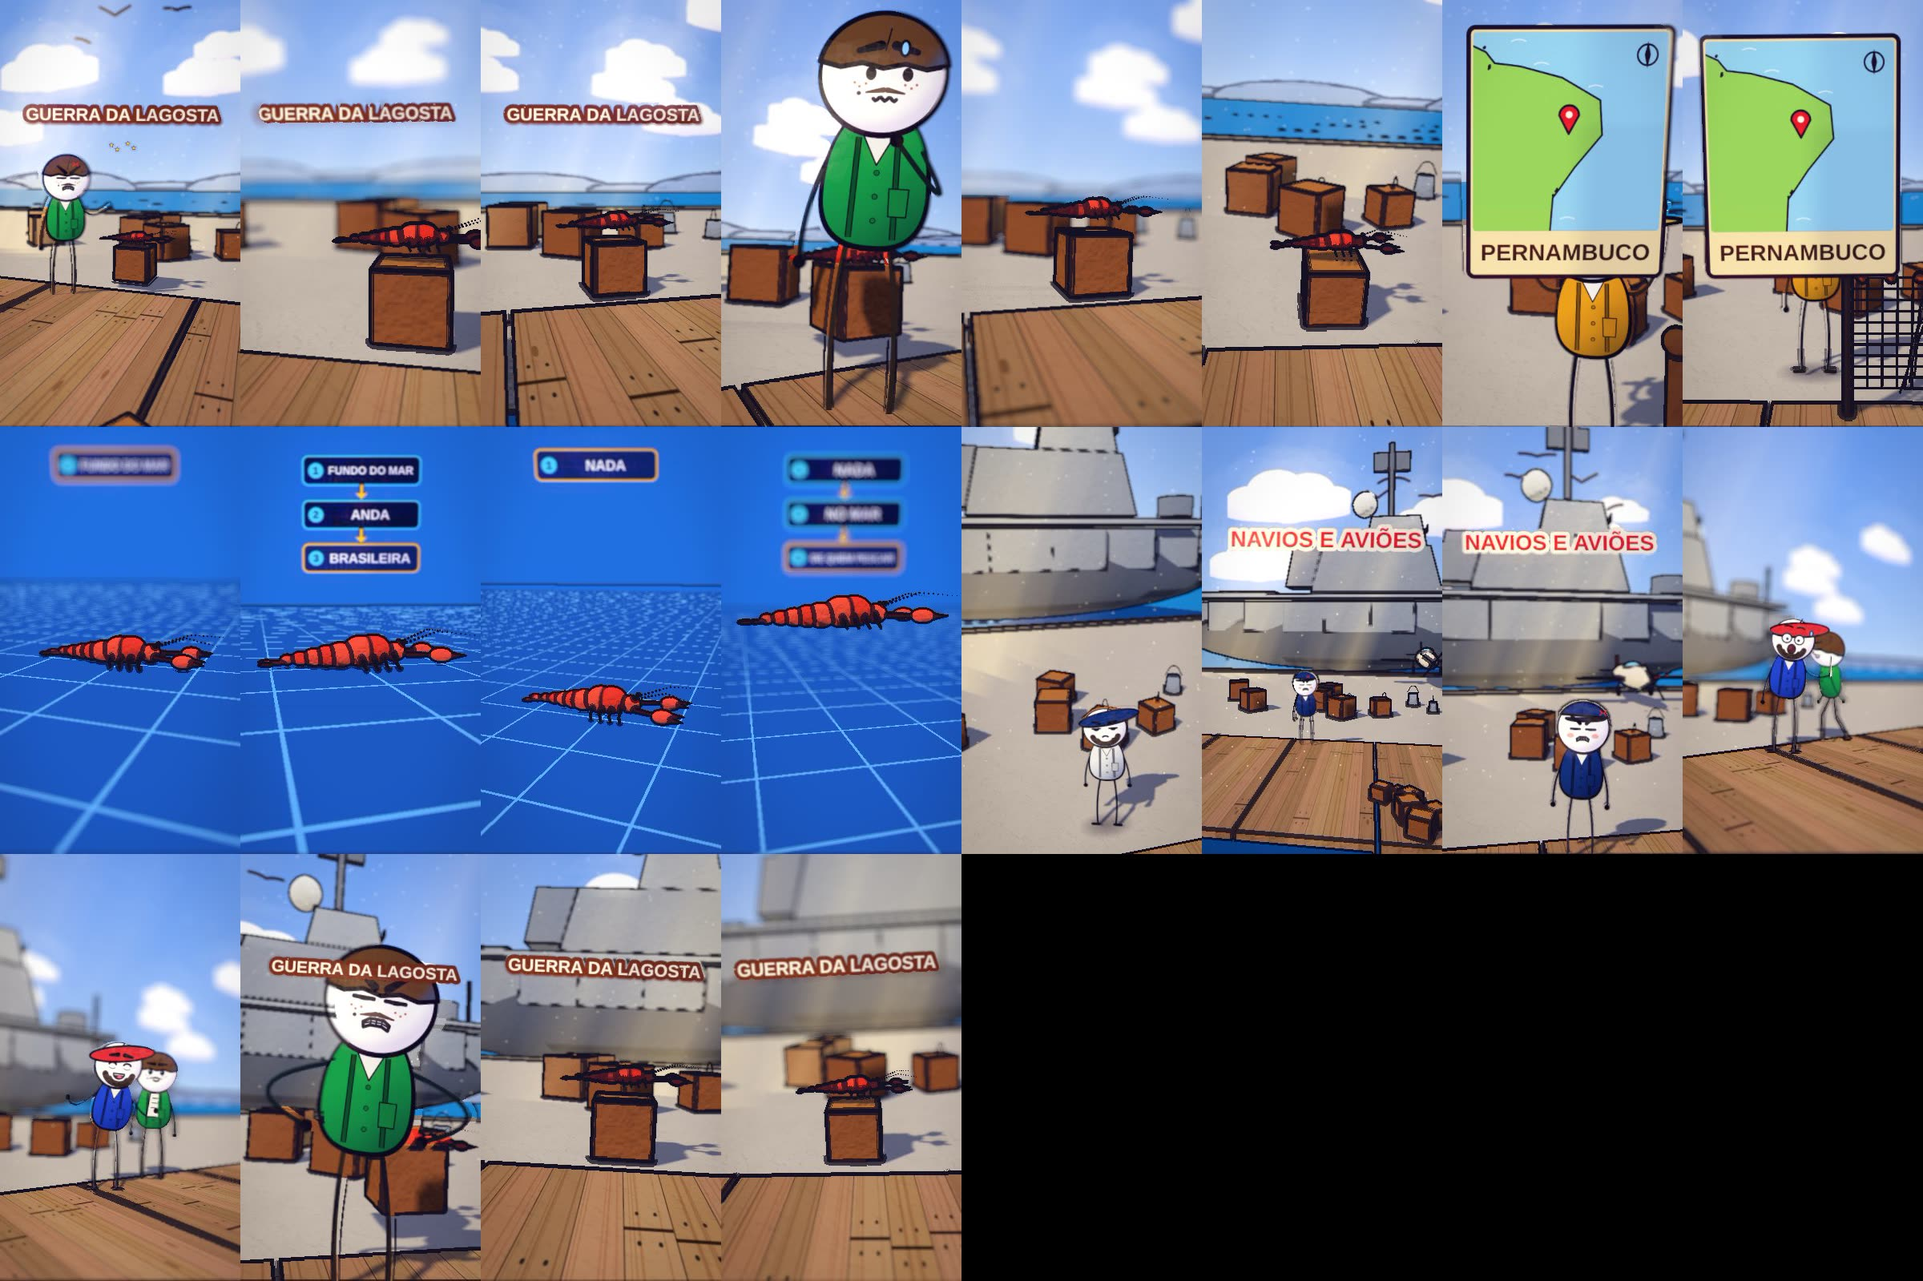
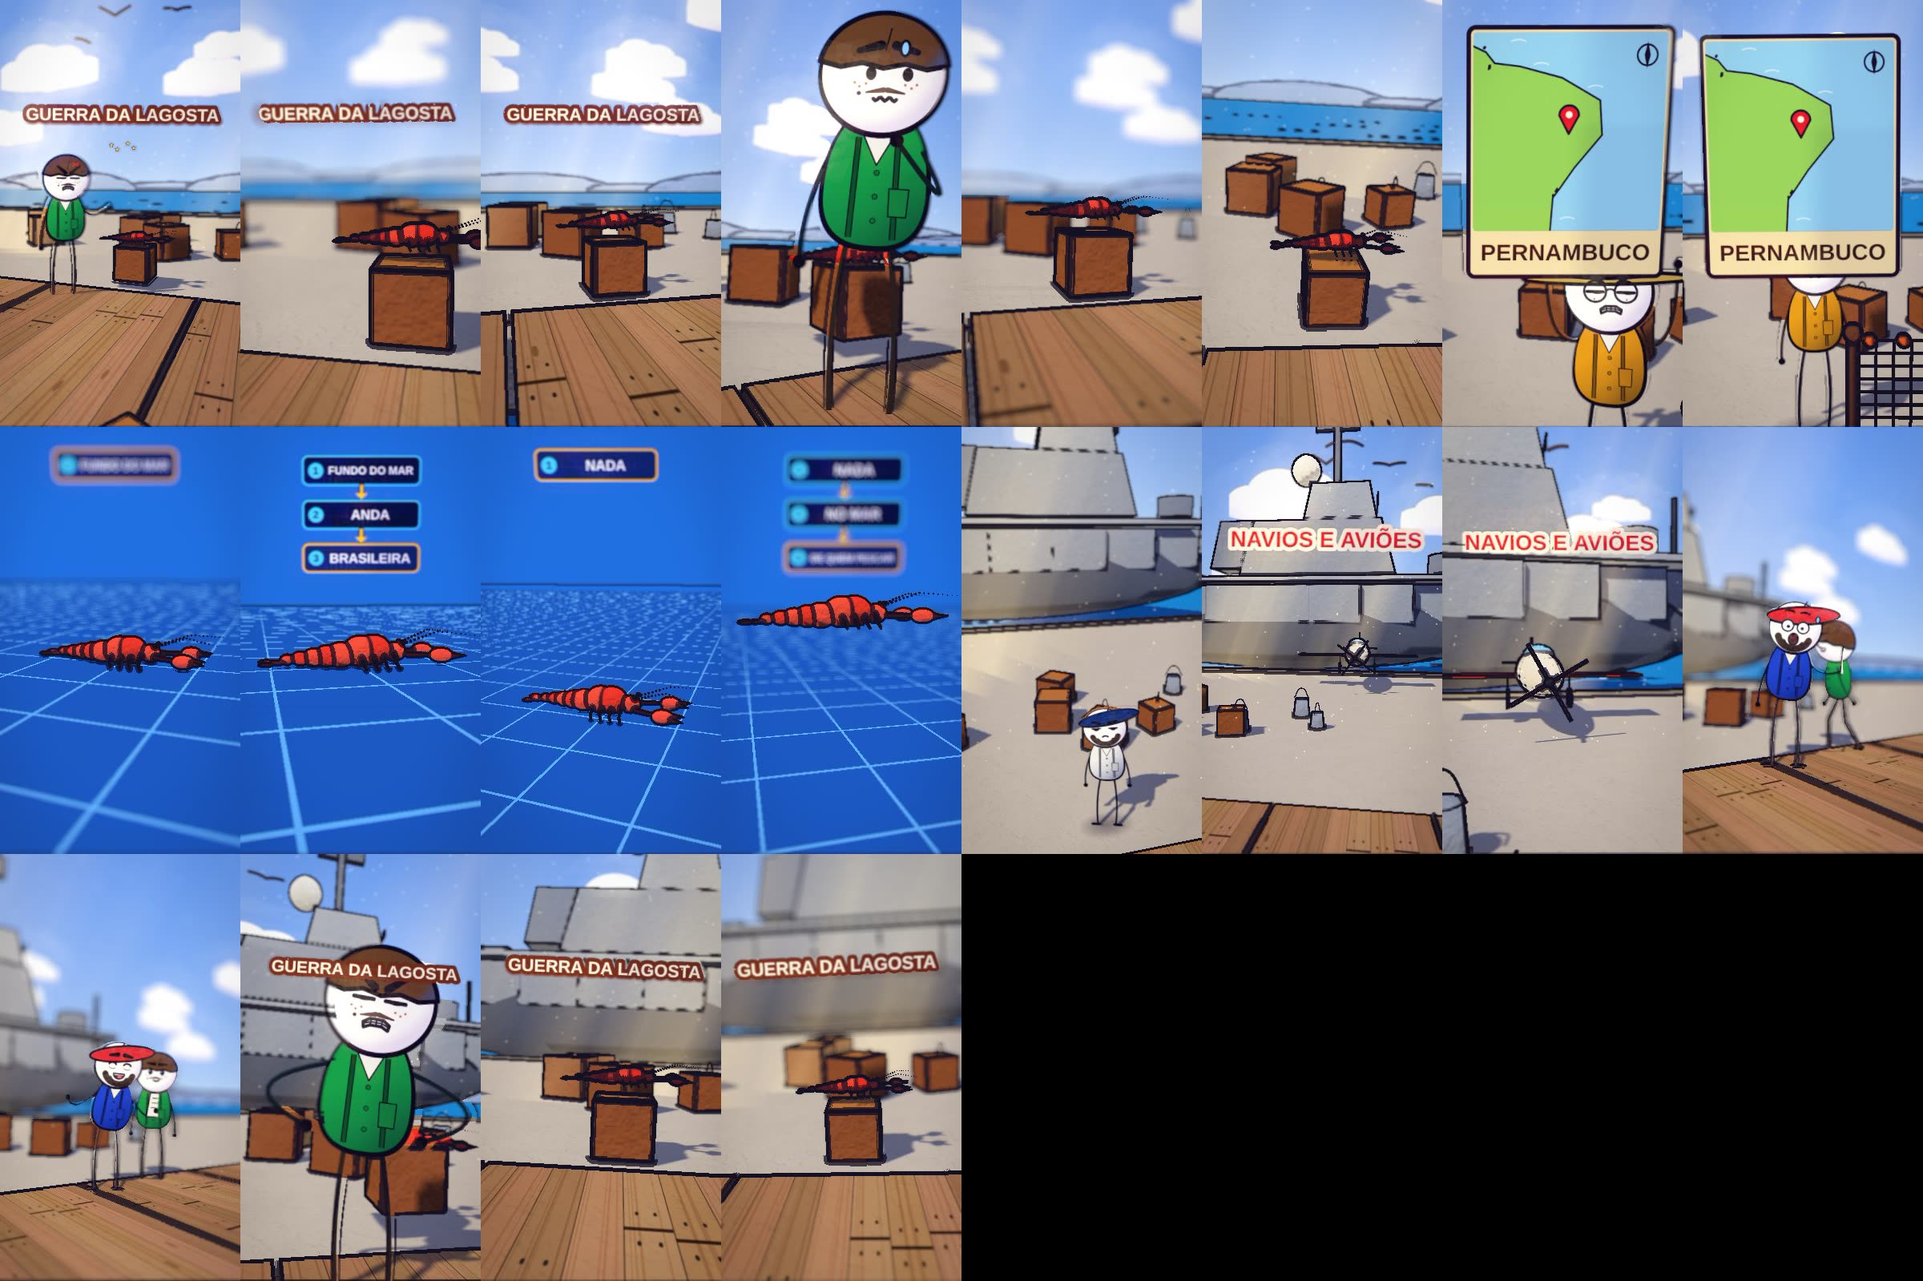
progresso da fila
Claude-Session: https://claude.ai/code/session_01HE8Dy3UcXXZZMLa7uzjNJD

Changed region(s): [[0.625, 0.1532, 1.0, 0.6742], [0.9688, 0.3984, 1.0, 0.429], [0.75, 0.1532, 0.7812, 0.1839]]

diff --git a/ferramenta-shorts/web/story.js b/ferramenta-shorts/web/story.js
@@ -38,11 +38,11 @@ const SPEC = {
   shots: [
     S('b0', A[0], Math.round(A[0] + (A[1] - 1 + 1 - (A[0])) * 0.36) - 1, X, "day", { h: 1.6, d0: 6.5, d1: 5.5, az0: -6, az1: 8, cx: 0.5, cz: -0.3, hero: { hero: 'any', frame: 'medium', minH: 0.07, main: 1 }, nocut: true, actors: [pp(X, "BRA", 0, 0.0, 1.3, "angry", { pose: 'argue' })], props: [{ asset: "crate", at: [X + 1.0, -0.4], s: 1.0, fixo: true }, { asset: "kit/lobster", at: [X + 1.0, -0.4], s: 0.58, fixo: true, y: DK + 0.95, drop: false }], fx: [{ k: 'stars', a: A[0] + 6, b: A[0] + 40, at: [X + 1.0, DK + 1.6, 0.1], s: 0.8 }, { k: 'birds', a: A[0], b: A[1] - 1, at: [X, DK + 4.5, -30], n: 4, dir: 1, off: 8 }, txt(X, WS(0, -2), A[1] - 1, "GUERRA DA LAGOSTA", '#fff6e0', '#7a3a1c', 4.5, { s: 1.5, up: 0.46 })] }), { ...S('b0_d', Math.round(A[0] + (A[1] - 1 + 1 - (A[0])) * 0.36), Math.round(A[0] + (A[1] - 1 + 1 - (A[0])) * 0.6) - 1, X, "day", { h: 1.6, d0: 6.5, d1: 5.5, az0: -6, az1: 8, cx: 0.5, cz: -0.3, hero: { hero: 'none', detalhe: true }, nocut: true, actors: [pp(X, "BRA", 0, 0.0, 1.3, "angry", { pose: 'stand' })], props: [{ asset: "crate", at: [X + 1.0, -0.4], s: 1.0, drop: false, fixo: true }, { asset: "kit/lobster", at: [X + 1.0, -0.4], s: 0.58, drop: false, fixo: true, y: DK + 0.95, drop: false }], fx: [{ k: 'stars', a: A[0] + 6, b: A[0] + 40, at: [X + 1.0, DK + 1.6, 0.1], s: 0.8 }, { k: 'birds', a: A[0], b: A[1] - 1, at: [X, DK + 4.5, -30], n: 4, dir: 1, off: 8 }, txt(X, WS(0, -2), A[1] - 1, "GUERRA DA LAGOSTA", '#fff6e0', '#7a3a1c', 4.5, { s: 1.5, up: 0.46 })] }), cam: [{ f: Math.round(A[0] + (A[1] - 1 + 1 - (A[0])) * 0.36), at: [X + 1.0, DK + 0.423, -0.4], d: 12.92, az: -14, el: 7, fov: 44 }, { f: Math.round(A[0] + (A[1] - 1 + 1 - (A[0])) * 0.6) - 1, at: [X + 1.0, DK + 0.423, -0.4], d: 11.5, az: -8, el: 6, fov: 44 }], nocut: true, vary: false, glide: true, glideN: 34 }, { ...S('b0_v', Math.round(A[0] + (A[1] - 1 + 1 - (A[0])) * 0.6), A[1] - 1, X, "day", { h: 1.6, d0: 6.5, d1: 5.5, az0: -6, az1: 8, cx: 0.5, cz: -0.3, hero: { hero: 'any', frame: 'medium', minH: 0.07, main: 1 }, nocut: true, actors: [pp(X, "BRA", 0, 0.0, 1.3, "angry", { pose: 'argue' })], props: [{ asset: "crate", at: [X + 1.0, -0.4], s: 1.0, drop: false, fixo: true }, { asset: "kit/lobster", at: [X + 1.0, -0.4], s: 0.58, drop: false, fixo: true, y: DK + 0.95, drop: false }], fx: [{ k: 'stars', a: A[0] + 6, b: A[0] + 40, at: [X + 1.0, DK + 1.6, 0.1], s: 0.8 }, { k: 'birds', a: A[0], b: A[1] - 1, at: [X, DK + 4.5, -30], n: 4, dir: 1, off: 8 }, txt(X, WS(0, -2), A[1] - 1, "GUERRA DA LAGOSTA", '#fff6e0', '#7a3a1c', 4.5, { s: 1.5, up: 0.46 })] }), glide: true, glideN: 34 },
     S('b1', A[1], Math.round(A[1] + (A[2] - 1 + 1 - (A[1])) * 0.36) - 1, X, "day", { h: 1.6, d0: 6.5, d1: 5.5, az0: -26, az1: -12, cx: 0.5, cz: -0.3, hero: { hero: 'any', frame: 'medium', minH: 0.07, main: 1 }, trans: 'cut', glide: true, glideN: 40, nocut: true, actors: [pp(X, "BRA", 0, 0.0, 1.3, "nervous", { pose: 'react' })], props: [{ asset: "crate", at: [X + 1.0, -0.4], s: 1.0, fixo: true }, { asset: "kit/lobster", at: [X + 1.0, -0.4], s: 0.58, fixo: true, y: DK + 0.95, drop: false }], fx: [{ k: 'stars', a: A[1] + 6, b: A[1] + 40, at: [X + 1.0, DK + 1.6, 0.1], s: 0.8 }] }), { ...S('b1_d', Math.round(A[1] + (A[2] - 1 + 1 - (A[1])) * 0.36), Math.round(A[1] + (A[2] - 1 + 1 - (A[1])) * 0.6) - 1, X, "day", { h: 1.6, d0: 6.5, d1: 5.5, az0: -26, az1: -12, cx: 0.5, cz: -0.3, hero: { hero: 'none', detalhe: true }, trans: 'cut', glide: true, glideN: 40, nocut: true, actors: [pp(X, "BRA", 0, 0.0, 1.3, "nervous", { pose: 'react' })], props: [{ asset: "crate", at: [X + 1.0, -0.4], s: 1.0, drop: false, fixo: true }, { asset: "kit/lobster", at: [X + 1.0, -0.4], s: 0.58, drop: false, fixo: true, y: DK + 0.95, drop: false }], fx: [{ k: 'stars', a: A[1] + 6, b: A[1] + 40, at: [X + 1.0, DK + 1.6, 0.1], s: 0.8 }] }), cam: [{ f: Math.round(A[1] + (A[2] - 1 + 1 - (A[1])) * 0.36), at: [X + 1.0, DK + 0.282, -0.4], d: 9.01, az: -14, el: 7, fov: 44 }, { f: Math.round(A[1] + (A[2] - 1 + 1 - (A[1])) * 0.6) - 1, at: [X + 1.0, DK + 0.282, -0.4], d: 8.0, az: -8, el: 6, fov: 44 }], nocut: true, vary: false, glide: true, glideN: 34 }, { ...S('b1_v', Math.round(A[1] + (A[2] - 1 + 1 - (A[1])) * 0.6), A[2] - 1, X, "day", { h: 1.6, d0: 6.5, d1: 5.5, az0: -26, az1: -12, cx: 0.5, cz: -0.3, hero: { hero: 'any', frame: 'medium', minH: 0.07, main: 1 }, trans: 'cut', glide: true, glideN: 40, nocut: true, actors: [pp(X, "BRA", 0, 0.0, 1.3, "nervous", { pose: 'react' })], props: [{ asset: "crate", at: [X + 1.0, -0.4], s: 1.0, drop: false, fixo: true }, { asset: "kit/lobster", at: [X + 1.0, -0.4], s: 0.58, drop: false, fixo: true, y: DK + 0.95, drop: false }], fx: [{ k: 'stars', a: A[1] + 6, b: A[1] + 40, at: [X + 1.0, DK + 1.6, 0.1], s: 0.8 }] }), glide: true, glideN: 34 },
-    { ...S('b2', A[2], A[3] - 1, X, "day", { h: 2.4, d0: 11.2, d1: 10.7, el: 5, fov: 46, cx: 0.0, cz: -3.6, hero: { hero: 'none', wide: true }, vary: false, nocut: true, trans: 'cut', actors: [pp(X, "PES", 0, 0.0, -0.4, "stern")], props: [{ asset: "boat", at: [X + 0.0, -27.0], s: 2.4, fixo: true }, { asset: "kit/fishing_net", at: [X + 1.8, 0.8], s: 1.2, drop: false }], fx: [{ k: 'map', a: WS(24, -2), b: Math.min(A[3] - 1, WS(24, -2) + 54), text: "PERNAMBUCO", geo: {"polys": [[7097, 522, 7096, 522, 7096, 521, -4214, 520, -4212, 518, -4210, 518, -4211, 520, -4211, 520, -4214, 522, 7097, 522], [-659, -42, -613, -29, -570, -64, -570, -85, -586, -135, -533, -118, -476, -147, -454, -169, -441, -146, -439, -117, -433, -62, -400, -44, -380, -54, -348, -64, -320, -75, -290, -84, -264, -72, -233, -76, -203, -100, -178, -140, -144, -62, -160, -8, -202, 46, -151, 49, -117, 79, -79, 35, -50, 20, -14, 29, 33, 50, 45, 65, 56, 78, 122, 86, 233, 115, 335, 173, 343, 263, 273, 348, 232, 408, 216, 430, 209, 546, 172, 650, 122, 722, 79, 727, 40, 737, -64, 790, -82, 807, -85, 856, -149, 978, -169, 996, -159, 961, -176, 980, -216, 1053, -235, 1031, -287, 990, -316, 983, -368, 955, -318, 902, -294, 882, -263, 866, -249, 821, -269, 794, -289, 758, -306, 728, -329, 701, -369, 699, -378, 677, -381, 648, -377, 607, -375, 552, -411, 514, -458, 447, -509, 417, -555, 395, -602, 372, -611, 342, -630, 307, -700, 339, -760, 345, -776, 299, -826, 311, -861, 271, -874, 245, -875, 229, -858, 188, -819, 141, -765, 133, -739, 36, -745, 14, -747, -25, -732, -26, -753, -37, -701, -60, -674, -70], [44, 90, 40, 93, 41, 89, 41, 87, 41, 85, 43, 83, 44, 83, 44, 85, 44, 86, 44, 90], [224, 412, 223, 413, 223, 411, 226, 408, 227, 405, 228, 407, 229, 408, 229, 409, 224, 412], [219, 424, 218, 426, 217, 426, 216, 425, 216, 423, 216, 422, 217, 422, 219, 422, 219, 424], [31, 38, 29, 40, 29, 41, 27, 40, 27, 39, 28, 39, 29, 37, 31, 37, 31, 38]], "hl": [1, 2, 3, 4, 5], "pin": [254.0, 260.0]} }, { k: "puff", a: A[2] + 70, b: A[2] + 96, at: [X + 0.9, DK + 0.12, 1.0], s: 0.75 }] }), nocut: true },
+    { ...S('b2', A[2], A[3] - 1, X, "day", { h: 2.8, d0: 14.8, d1: 11.8, el: 5, fov: 46, cx: 0.0, cz: -5.6, hero: { hero: 'none', wide: true }, vary: false, nocut: true, trans: 'cut', actors: [pp(X, "PES", 0, 0.0, -0.4, "stern")], props: [{ asset: "boat", at: [X + 0.0, -27.0], s: 2.4, fixo: true }, { asset: "kit/fishing_net", at: [X + 1.8, 0.8], s: 1.2, drop: false }], fx: [{ k: 'map', a: WS(24, -2), b: Math.min(A[3] - 1, WS(24, -2) + 54), text: "PERNAMBUCO", geo: {"polys": [[7097, 522, 7096, 522, 7096, 521, -4214, 520, -4212, 518, -4210, 518, -4211, 520, -4211, 520, -4214, 522, 7097, 522], [-659, -42, -613, -29, -570, -64, -570, -85, -586, -135, -533, -118, -476, -147, -454, -169, -441, -146, -439, -117, -433, -62, -400, -44, -380, -54, -348, -64, -320, -75, -290, -84, -264, -72, -233, -76, -203, -100, -178, -140, -144, -62, -160, -8, -202, 46, -151, 49, -117, 79, -79, 35, -50, 20, -14, 29, 33, 50, 45, 65, 56, 78, 122, 86, 233, 115, 335, 173, 343, 263, 273, 348, 232, 408, 216, 430, 209, 546, 172, 650, 122, 722, 79, 727, 40, 737, -64, 790, -82, 807, -85, 856, -149, 978, -169, 996, -159, 961, -176, 980, -216, 1053, -235, 1031, -287, 990, -316, 983, -368, 955, -318, 902, -294, 882, -263, 866, -249, 821, -269, 794, -289, 758, -306, 728, -329, 701, -369, 699, -378, 677, -381, 648, -377, 607, -375, 552, -411, 514, -458, 447, -509, 417, -555, 395, -602, 372, -611, 342, -630, 307, -700, 339, -760, 345, -776, 299, -826, 311, -861, 271, -874, 245, -875, 229, -858, 188, -819, 141, -765, 133, -739, 36, -745, 14, -747, -25, -732, -26, -753, -37, -701, -60, -674, -70], [44, 90, 40, 93, 41, 89, 41, 87, 41, 85, 43, 83, 44, 83, 44, 85, 44, 86, 44, 90], [224, 412, 223, 413, 223, 411, 226, 408, 227, 405, 228, 407, 229, 408, 229, 409, 224, 412], [219, 424, 218, 426, 217, 426, 216, 425, 216, 423, 216, 422, 217, 422, 219, 422, 219, 424], [31, 38, 29, 40, 29, 41, 27, 40, 27, 39, 28, 39, 29, 37, 31, 37, 31, 38]], "hl": [1, 2, 3, 4, 5], "pin": [254.0, 260.0]} }, { k: "puff", a: A[2] + 70, b: A[2] + 96, at: [X + 0.9, DK + 0.12, 1.0], s: 0.75 }] }), nocut: true },
     { ...S('b3', A[3], Math.round(A[3] + (A[4] - 1 + 1 - (A[3])) * 0.5) - 1, X_loc_estudio, "explica", { actors: [], props: [{ asset: "kit/lobster", at: [X_loc_estudio, -2.0], s: 1.47, y: (f) => DK, ry: 0.0, drop: false }], fx: [{ k: 'passos', a: (A[3]) + 8, b: A[4] - 1, itens: ["FUNDO DO MAR", "ANDA", "BRASILEIRA"], up: 0.58 }], hero: { hero: 'none', explica: true }, trans: 'dissolve' }), cam: [{ f: A[3], at: [X_loc_estudio + 0.0, DK + 0.615, -2.0], d: 14.2, az: 26, el: 10, fov: 44 }, { f: Math.round(A[3] + (A[4] - 1 + 1 - (A[3])) * 0.5) - 1, at: [X_loc_estudio + 0.0, DK + 0.615, -2.0], d: 12.78, az: 12, el: 8, fov: 44 }], nocut: true, vary: false, creep: 0 }, { ...S('b3_x', Math.round(A[3] + (A[4] - 1 + 1 - (A[3])) * 0.5), A[4] - 1, X_loc_estudio, "explica", { actors: [], props: [{ asset: "kit/lobster", at: [X_loc_estudio, -2.0], s: 1.47, y: (f) => DK, ry: 0.0, drop: false }], fx: [{ k: 'passos', a: (A[3]) + 8, b: A[4] - 1, itens: ["FUNDO DO MAR", "ANDA", "BRASILEIRA"], up: 0.58 }], hero: { hero: 'none', explica: true }, trans: 'cut' }), cam: [{ f: Math.round(A[3] + (A[4] - 1 + 1 - (A[3])) * 0.5), at: [X_loc_estudio + 0.0, DK + 0.615, -2.0], d: 12.5, az: -20, el: 6, fov: 44 }, { f: A[4] - 1, at: [X_loc_estudio + 0.0, DK + 0.615, -2.0], d: 11.36, az: -6, el: 5, fov: 44 }], nocut: true, vary: false, glide: true, glideN: 22, creep: 0 },
     { ...S('b4', A[4], Math.round(A[4] + (A[5] - 1 + 1 - (A[4])) * 0.5) - 1, X_loc_estudio, "explica", { actors: [], props: [{ asset: "kit/lobster", at: [X_loc_estudio, -2.0], s: 1.47, y: (f) => DK + 2.4 * Math.pow(Math.min(1, Math.max(0, (f - ((A[4]) + 14)) / 40)), 1.5) + (f > ((A[4]) + 14) + 40 ? 0.1 * Math.sin((f - ((A[4]) + 14)) / 9) : 0), ry: 0.0, drop: false }], fx: [{ k: 'passos', a: (A[4]) + 8, b: A[5] - 1, itens: ["NADA", "NO MAR", "DE QUEM PESCAR"], up: 0.58 }], hero: { hero: 'none', explica: true }, trans: 'dissolve' }), cam: [{ f: A[4], at: [X_loc_estudio + 0.0, DK + 2.115, -2.0], d: 14.2, az: 26, el: 10, fov: 44 }, { f: Math.round(A[4] + (A[5] - 1 + 1 - (A[4])) * 0.5) - 1, at: [X_loc_estudio + 0.0, DK + 2.115, -2.0], d: 12.78, az: 12, el: 8, fov: 44 }], nocut: true, vary: false, creep: 0 }, { ...S('b4_x', Math.round(A[4] + (A[5] - 1 + 1 - (A[4])) * 0.5), A[5] - 1, X_loc_estudio, "explica", { actors: [], props: [{ asset: "kit/lobster", at: [X_loc_estudio, -2.0], s: 1.47, y: (f) => DK + 2.4 * Math.pow(Math.min(1, Math.max(0, (f - ((A[4]) + 14)) / 40)), 1.5) + (f > ((A[4]) + 14) + 40 ? 0.1 * Math.sin((f - ((A[4]) + 14)) / 9) : 0), ry: 0.0, drop: false }], fx: [{ k: 'passos', a: (A[4]) + 8, b: A[5] - 1, itens: ["NADA", "NO MAR", "DE QUEM PESCAR"], up: 0.58 }], hero: { hero: 'none', explica: true }, trans: 'cut' }), cam: [{ f: Math.round(A[4] + (A[5] - 1 + 1 - (A[4])) * 0.5), at: [X_loc_estudio + 0.0, DK + 2.115, -2.0], d: 12.5, az: -20, el: 6, fov: 44 }, { f: A[5] - 1, at: [X_loc_estudio + 0.0, DK + 2.115, -2.0], d: 11.36, az: -6, el: 5, fov: 44 }], nocut: true, vary: false, glide: true, glideN: 22, creep: 0 },
     { ...S('b5', A[5], A[6] - 1, X, "day", { h: 4.0, d0: 21.0, d1: 20.0, el: 11, fov: 46, az0: -38, az1: 32, cx: 0.0, cz: -2.0, hero: { hero: 'none', wide: true }, vary: false, nocut: true, trans: 'cut', actors: [pp(X, "MFR", 0, 0.0, -0.4, "stern")], props: [{ asset: "kit/navio_destroier", at: [X + 0.0, -27.0], s: 8.27, fixo: true, drop: false }], fx: [{ k: 'birds', a: A[5], b: A[6] - 1, at: [X, DK + 7.5, -30], n: 6, dir: 1, off: 15 }] }), nocut: true },
-    S('b6', A[6], A[7] - 1, X, "day", { h: 4.0, d0: 21.0, d1: 20.0, az0: 24, az1: 10, cx: 0.0, cz: -2.0, hero: { hero: 'any', frame: 'medium', minH: 0.07, main: 1 }, trans: 'cut', glide: true, glideN: 40, nocut: true, actors: [pp(X, "MAR", 0, 0.0, 1.3, "angry", { pose: 'talk' })], props: [{ asset: "ship", at: [X + 0.0, -34.5], s: 2.11, fixo: true }, { asset: "vehicles/airplane", at: [X + 7.0, -16.0], s: 1.2, fixo: true }, { asset: "kit/navio_destroier", at: [X + 0.0, -27.0], s: 8.27, fixo: true, drop: false }], fx: [{ k: 'birds', a: A[6], b: A[7] - 1, at: [X, DK + 4.5, -30], n: 4, dir: -1, off: 8 }, txt(X, WS(56, -2), A[7] - 1, "NAVIOS E AVIÕES", '#d8282f', '#fff6e0', 4.5, { s: 1.5, up: 0.46 })] }),
+    S('b6', A[6], A[7] - 1, X, "day", { h: 2.8, d0: 20.8, d1: 17.8, az0: 24, az1: 10, cx: 7.0, cz: -11.2, hero: { hero: 'any', frame: 'medium', minH: 0.07, main: 1 }, trans: 'cut', glide: true, glideN: 40, nocut: true, actors: [pp(X, "MAR", 0, 0.0, 1.3, "angry", { pose: 'talk' })], props: [{ asset: "ship", at: [X + 0.0, -34.5], s: 2.11, fixo: true }, { asset: "vehicles/airplane", at: [X + 7.0, -16.0], s: 1.2, fixo: true }, { asset: "kit/navio_destroier", at: [X + 0.0, -27.0], s: 8.27, fixo: true, drop: false }], fx: [{ k: 'birds', a: A[6], b: A[7] - 1, at: [X, DK + 4.5, -30], n: 4, dir: -1, off: 8 }, txt(X, WS(56, -2), A[7] - 1, "NAVIOS E AVIÕES", '#d8282f', '#fff6e0', 4.5, { s: 1.5, up: 0.46 })] }),
     S('b7', A[7], A[8] - 1, X, "day", { h: 2.5, d0: 11.4, d1: 10.2, az0: -32, az1: -18, hero: { hero: 'any', frame: 'medium', minH: 0.07, main: 2 }, trans: 'cut', glide: true, glideN: 40, nocut: true, actors: [pp(X, "FRA", 0, -1.0, 1.3, "relief", { over: { hold: "paper" }, pose: 'talk', inter: { k: 'step', a: Math.round(A[7] + (A[8] - 1 - (A[7])) * 0.12), b: Math.round(A[7] + (A[8] - 1 - (A[7])) * 0.82), dir: 1, n: 2, ph: 0 } }), { outfit: "BRA", v: 0, at: [X + 3.4, -0.6], move: [[X + 1.0, 1.0], A[7], Math.round(A[7] + Math.min(48, (A[8] - 1 - (A[7])) * 0.3)), 'lin'], arrive: true, walk: "stroll", look: -0.4, expr: "smile" }], props: [{ asset: "ship", at: [X + 0.0, -34.5], s: 2.11, fixo: true }, { asset: "kit/navio_destroier", at: [X + 0.0, -27.0], s: 8.27, fixo: true, drop: false }] }),
     S('b8', A[8], Math.round(A[8] + (A[9] - 1 + 1 - (A[8])) * 0.36) - 1, X, "day", { h: 1.6, d0: 6.5, d1: 5.5, az0: -6, az1: 8, cx: 0.5, cz: -0.3, hero: { hero: 'any', frame: 'medium', minH: 0.07, main: 1 }, trans: 'cut', glide: true, glideN: 40, nocut: true, actors: [pp(X, "BRA", 0, 0.0, 1.3, "angry", { pose: 'argue' })], props: [{ asset: "crate", at: [X + 1.0, -0.4], s: 1.0, fixo: true }, { asset: "kit/lobster", at: [X + 1.0, -0.4], s: 0.58, fixo: true, y: DK + 0.95, drop: false }, { asset: "ship", at: [X + 0.0, -34.5], s: 2.11, fixo: true }, { asset: "kit/navio_destroier", at: [X + 0.0, -27.0], s: 8.27, fixo: true, drop: false }], fx: [{ k: 'stars', a: A[8] + 6, b: A[8] + 40, at: [X + 1.0, DK + 1.6, 0.1], s: 0.8 }, { k: 'birds', a: A[8], b: A[9] - 1, at: [X, DK + 7.5, -30], n: 6, dir: 1, off: 8 }, txt(X, WS(73, -2), A[9] - 1, "GUERRA DA LAGOSTA", '#fff6e0', '#7a3a1c', 4.5, { s: 1.5, up: 0.46 })] }), { ...S('b8_d', Math.round(A[8] + (A[9] - 1 + 1 - (A[8])) * 0.36), Math.round(A[8] + (A[9] - 1 + 1 - (A[8])) * 0.6) - 1, X, "day", { h: 1.6, d0: 6.5, d1: 5.5, az0: -6, az1: 8, cx: 0.5, cz: -0.3, hero: { hero: 'none', detalhe: true }, trans: 'cut', glide: true, glideN: 40, nocut: true, actors: [pp(X, "BRA", 0, 0.0, 1.3, "angry", { pose: 'stand' })], props: [{ asset: "crate", at: [X + 1.0, -0.4], s: 1.0, drop: false, fixo: true }, { asset: "kit/lobster", at: [X + 1.0, -0.4], s: 0.58, drop: false, fixo: true, y: DK + 0.95, drop: false }, { asset: "ship", at: [X + 0.0, -34.5], s: 2.11, drop: false, fixo: true }, { asset: "kit/navio_destroier", at: [X + 0.0, -27.0], s: 8.27, drop: false, fixo: true, drop: false }], fx: [{ k: 'stars', a: A[8] + 6, b: A[8] + 40, at: [X + 1.0, DK + 1.6, 0.1], s: 0.8 }, { k: 'birds', a: A[8], b: A[9] - 1, at: [X, DK + 7.5, -30], n: 6, dir: 1, off: 8 }, txt(X, WS(73, -2), A[9] - 1, "GUERRA DA LAGOSTA", '#fff6e0', '#7a3a1c', 4.5, { s: 1.5, up: 0.46 })] }), cam: [{ f: Math.round(A[8] + (A[9] - 1 + 1 - (A[8])) * 0.36), at: [X + 1.0, DK + 0.423, -0.4], d: 12.92, az: -14, el: 7, fov: 44 }, { f: Math.round(A[8] + (A[9] - 1 + 1 - (A[8])) * 0.6) - 1, at: [X + 1.0, DK + 0.423, -0.4], d: 11.5, az: -8, el: 6, fov: 44 }], nocut: true, vary: false, glide: true, glideN: 34 }, { ...S('b8_v', Math.round(A[8] + (A[9] - 1 + 1 - (A[8])) * 0.6), A[9] - 1, X, "day", { h: 1.6, d0: 6.5, d1: 5.5, az0: -6, az1: 8, cx: 0.5, cz: -0.3, hero: { hero: 'any', frame: 'medium', minH: 0.07, main: 1 }, trans: 'cut', glide: true, glideN: 40, nocut: true, actors: [pp(X, "BRA", 0, 0.0, 1.3, "angry", { pose: 'argue' })], props: [{ asset: "crate", at: [X + 1.0, -0.4], s: 1.0, drop: false, fixo: true }, { asset: "kit/lobster", at: [X + 1.0, -0.4], s: 0.58, drop: false, fixo: true, y: DK + 0.95, drop: false }, { asset: "ship", at: [X + 0.0, -34.5], s: 2.11, drop: false, fixo: true }, { asset: "kit/navio_destroier", at: [X + 0.0, -27.0], s: 8.27, drop: false, fixo: true, drop: false }], fx: [{ k: 'stars', a: A[8] + 6, b: A[8] + 40, at: [X + 1.0, DK + 1.6, 0.1], s: 0.8 }, { k: 'birds', a: A[8], b: A[9] - 1, at: [X, DK + 7.5, -30], n: 6, dir: 1, off: 8 }, txt(X, WS(73, -2), A[9] - 1, "GUERRA DA LAGOSTA", '#fff6e0', '#7a3a1c', 4.5, { s: 1.5, up: 0.46 })] }), glide: true, glideN: 34 }
   ],

diff --git a/ferramenta-shorts/stories/lagosta1961/cronograma.md b/ferramenta-shorts/stories/lagosta1961/cronograma.md
@@ -27,13 +27,13 @@ N | Etapa | O que confere | Estado | Proximo passo
 5 | Voz | narracao neural gerada e tempos por palavra | FEITO | 
 6 | Estilo e enquadramento | autoajuste de luz/cor e ajuste de camera de cada tomada | FEITO | 
 7 | Gates | camera OK, todas as tomadas OK, estilo OK | FEITO | 
-8 | Storyboard e grade de acoes | video inteiro em quadros + 1 quadro no instante de cada acao | PENDENTE | 
-9 | Revisao escrita e aprovacao | uma linha por frase conferindo com a folha 3 e com o quadro da pesquisa | BLOQUEADO (etapa anterior pendente) | ./aprovar_storyboard.sh lagosta1961
+8 | Storyboard e grade de acoes | video inteiro em quadros + 1 quadro no instante de cada acao | FEITO | 
+9 | Revisao escrita e aprovacao | uma linha por frase conferindo com a folha 3 e com o quadro da pesquisa | PENDENTE | ./aprovar_storyboard.sh lagosta1961
 10 | Render | todos os quadros renderizados nesta versao das folhas | BLOQUEADO (etapa anterior pendente) | 
 11 | Montagem e som | trechos + voz + musica + efeitos; volume normalizado | BLOQUEADO (etapa anterior pendente) | 
 12 | Conferencia | conferir.sh sem falha e folha de contato olhada | BLOQUEADO (etapa anterior pendente) | ./conferir.sh lagosta1961
 13 | Auditoria das acoes | 1 quadro do mp4 em cada palavra de acao | BLOQUEADO (etapa anterior pendente) | bash auditar_acoes.sh local lagosta1961 <mp4>
 14 | Entrega | mp4 original 1080x1920 enviado; commit e push | BLOQUEADO (etapa anterior pendente) | 
 
-**Etapa atual:** 8. Storyboard e grade de acoes
+**Etapa atual:** 9. Revisao escrita e aprovacao
 
